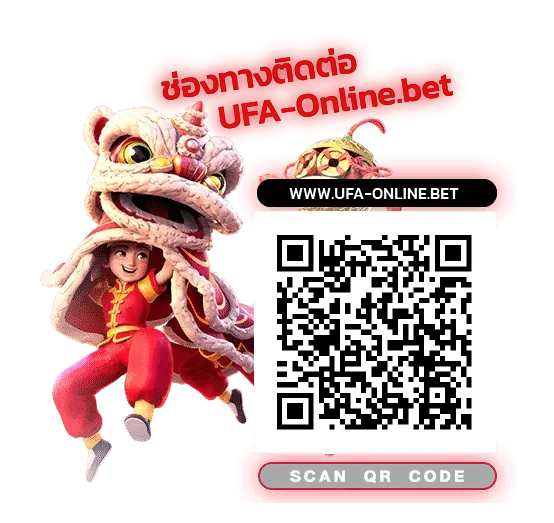
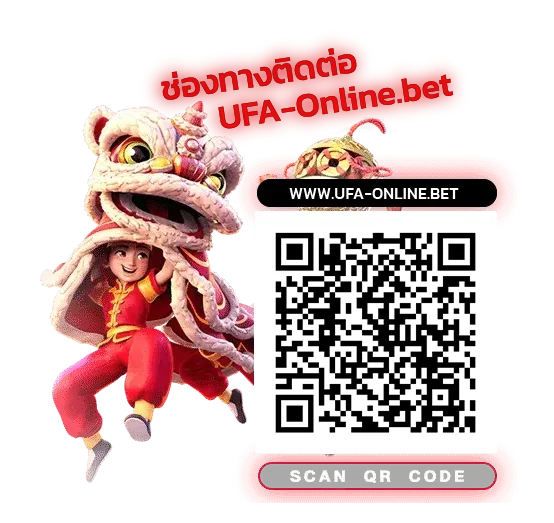
sad

Changed region(s): [[0.491, 0.4283, 0.8592, 0.826]]

diff --git a/components/AppBar.vue b/components/AppBar.vue
@@ -87,7 +87,7 @@
                 class="justify-center"
                 style="margin: 0px; margin-top: 15px"
               >
-                <a href="https://lin.ee/sQCIWhr" target="_BLANK">
+                <a href="https://lin.ee/6W5TMYA" target="_BLANK">
                   <div>
                     <img
                       width="90%"
@@ -152,7 +152,7 @@
           style="background: transparent"
           height="100%"
           width="20%"
-          href="https://lin.ee/sQCIWhr"
+          href="https://lin.ee/6W5TMYA"
           target="_BLANK"
           class="pa-0 align-start"
         >

diff --git a/components/Ufagame.vue b/components/Ufagame.vue
@@ -6,7 +6,7 @@
       <!-- Desktop -->
       <div class="hidden-sm-and-down">
         <div style="position: fixed; right: 2.5%; top: 60%; z-index: 1">
-          <a href="https://lin.ee/sQCIWhr" target="_BLANK">
+          <a href="https://lin.ee/6W5TMYA" target="_BLANK">
             <img style="10%" src="../assets/Webp/Ufagame/linebunnyfix.webp" />
           </a>
         </div>
